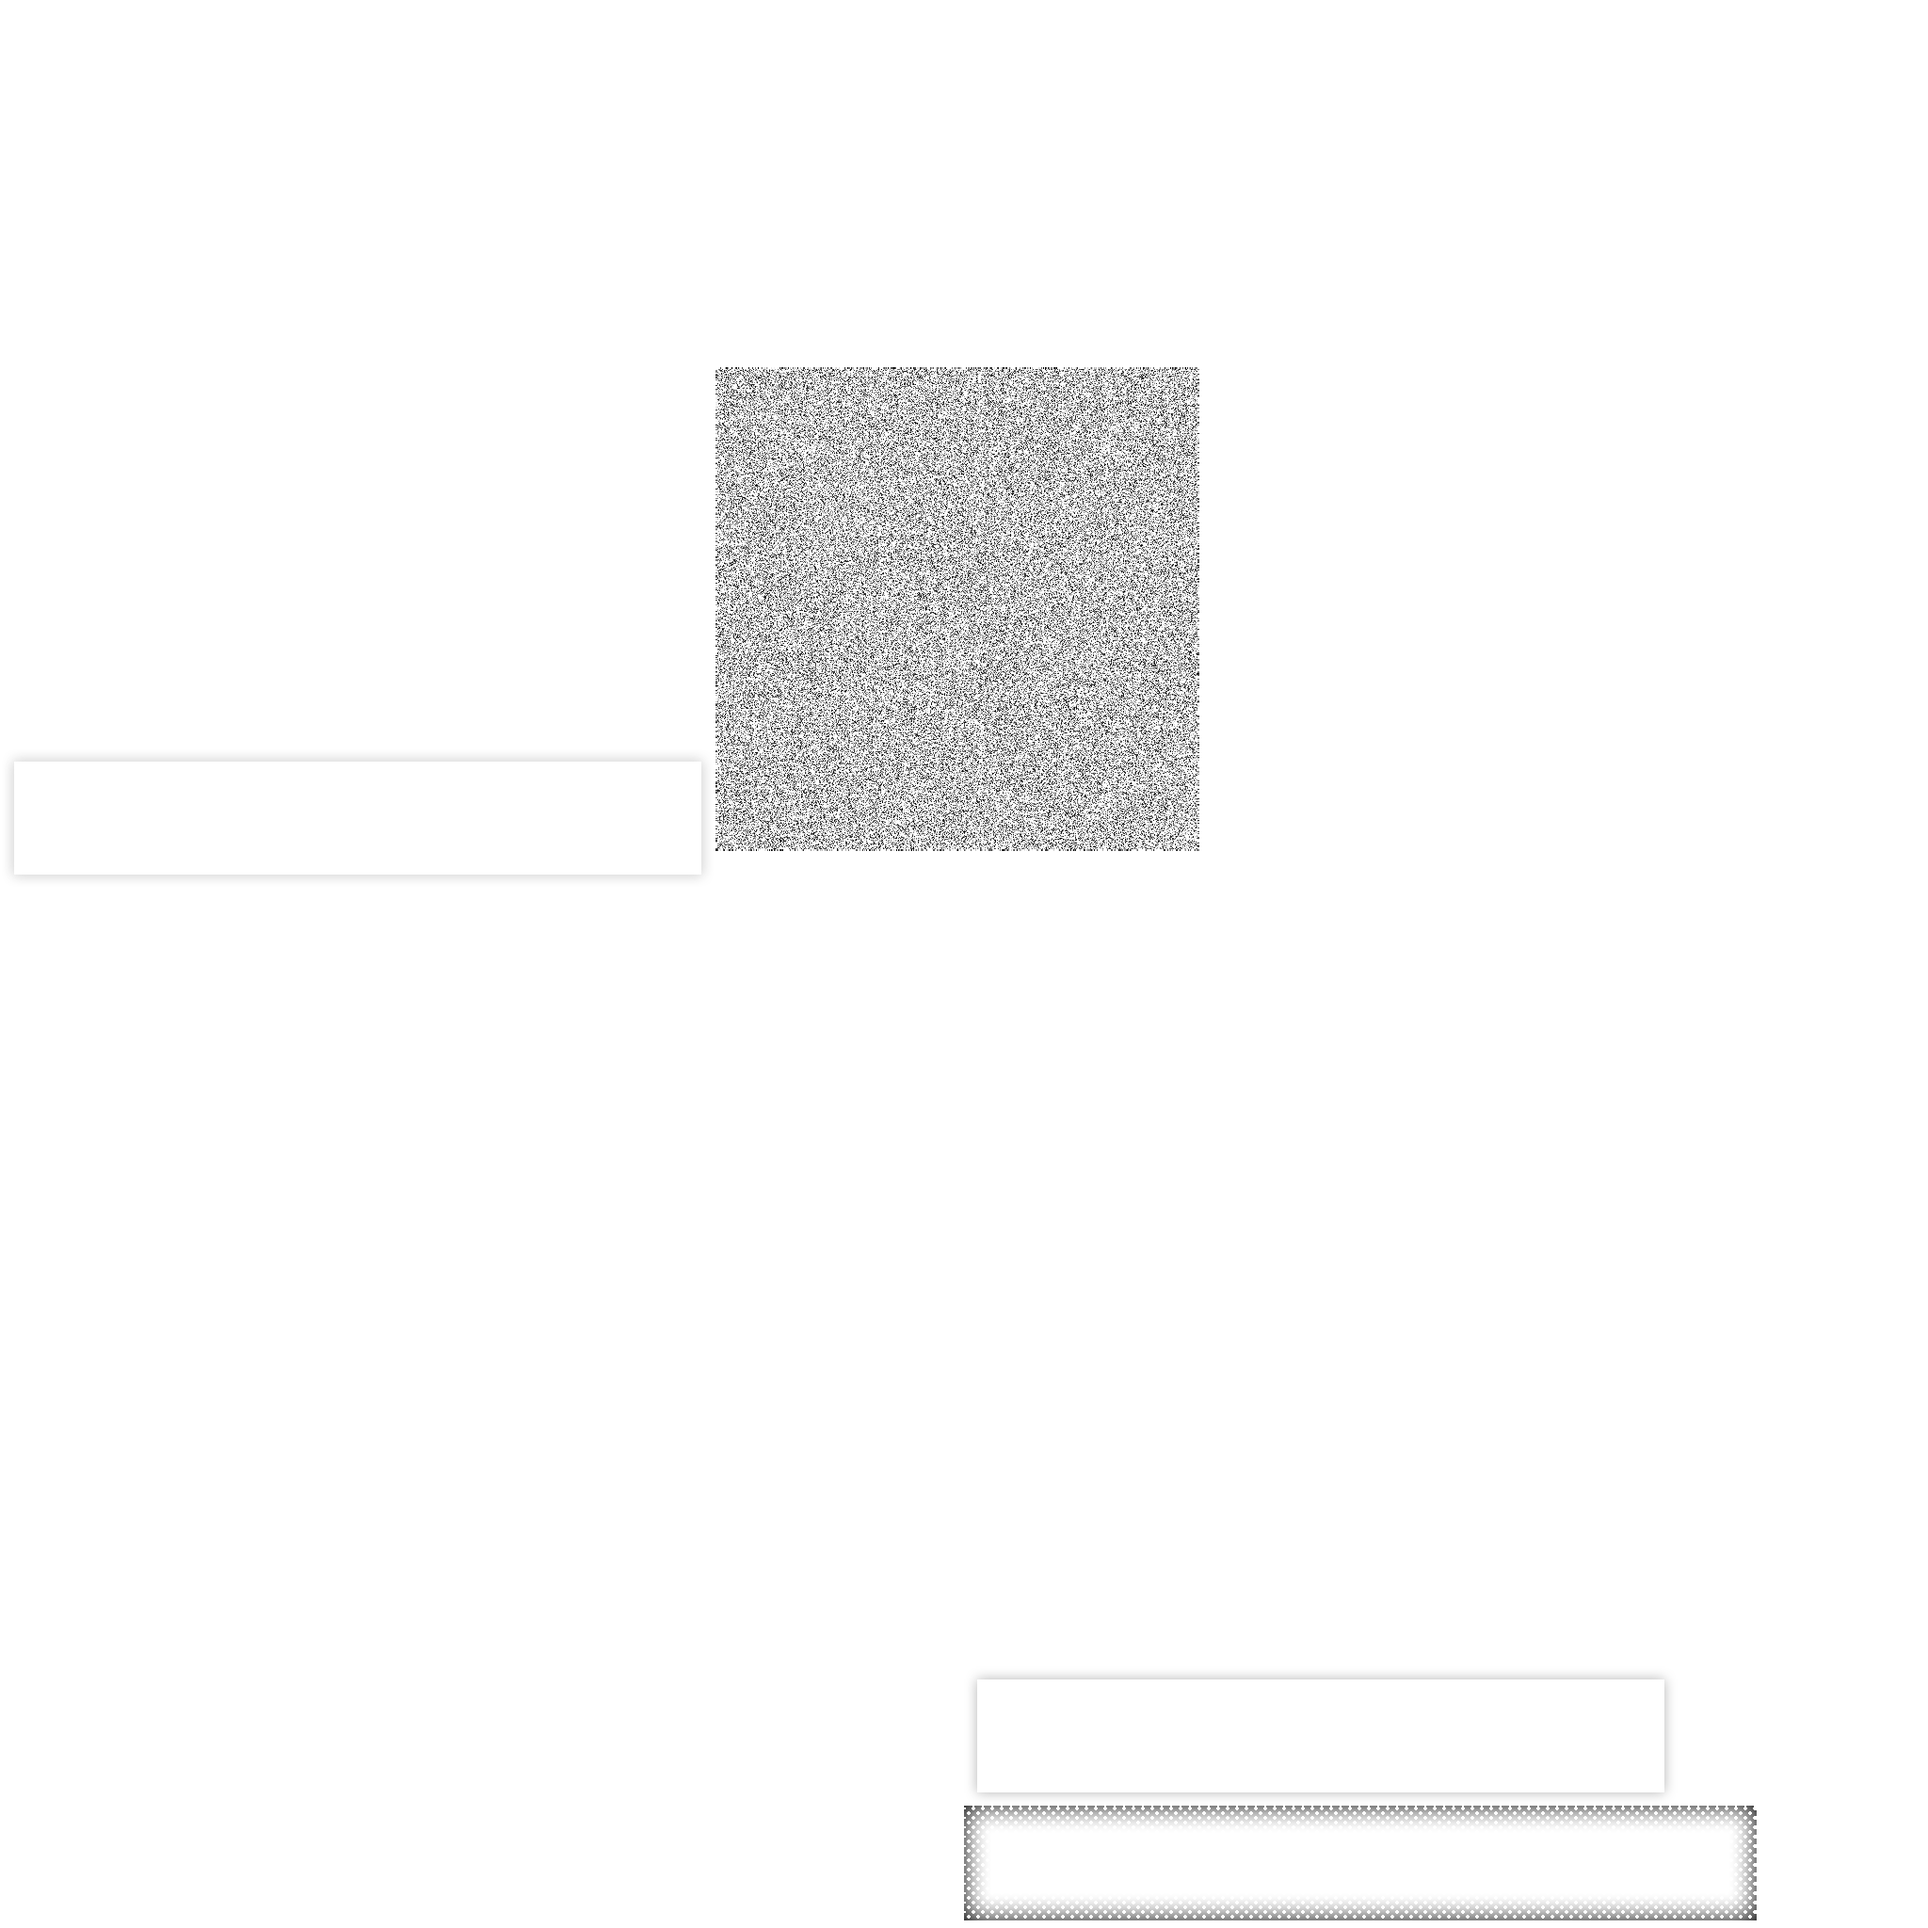
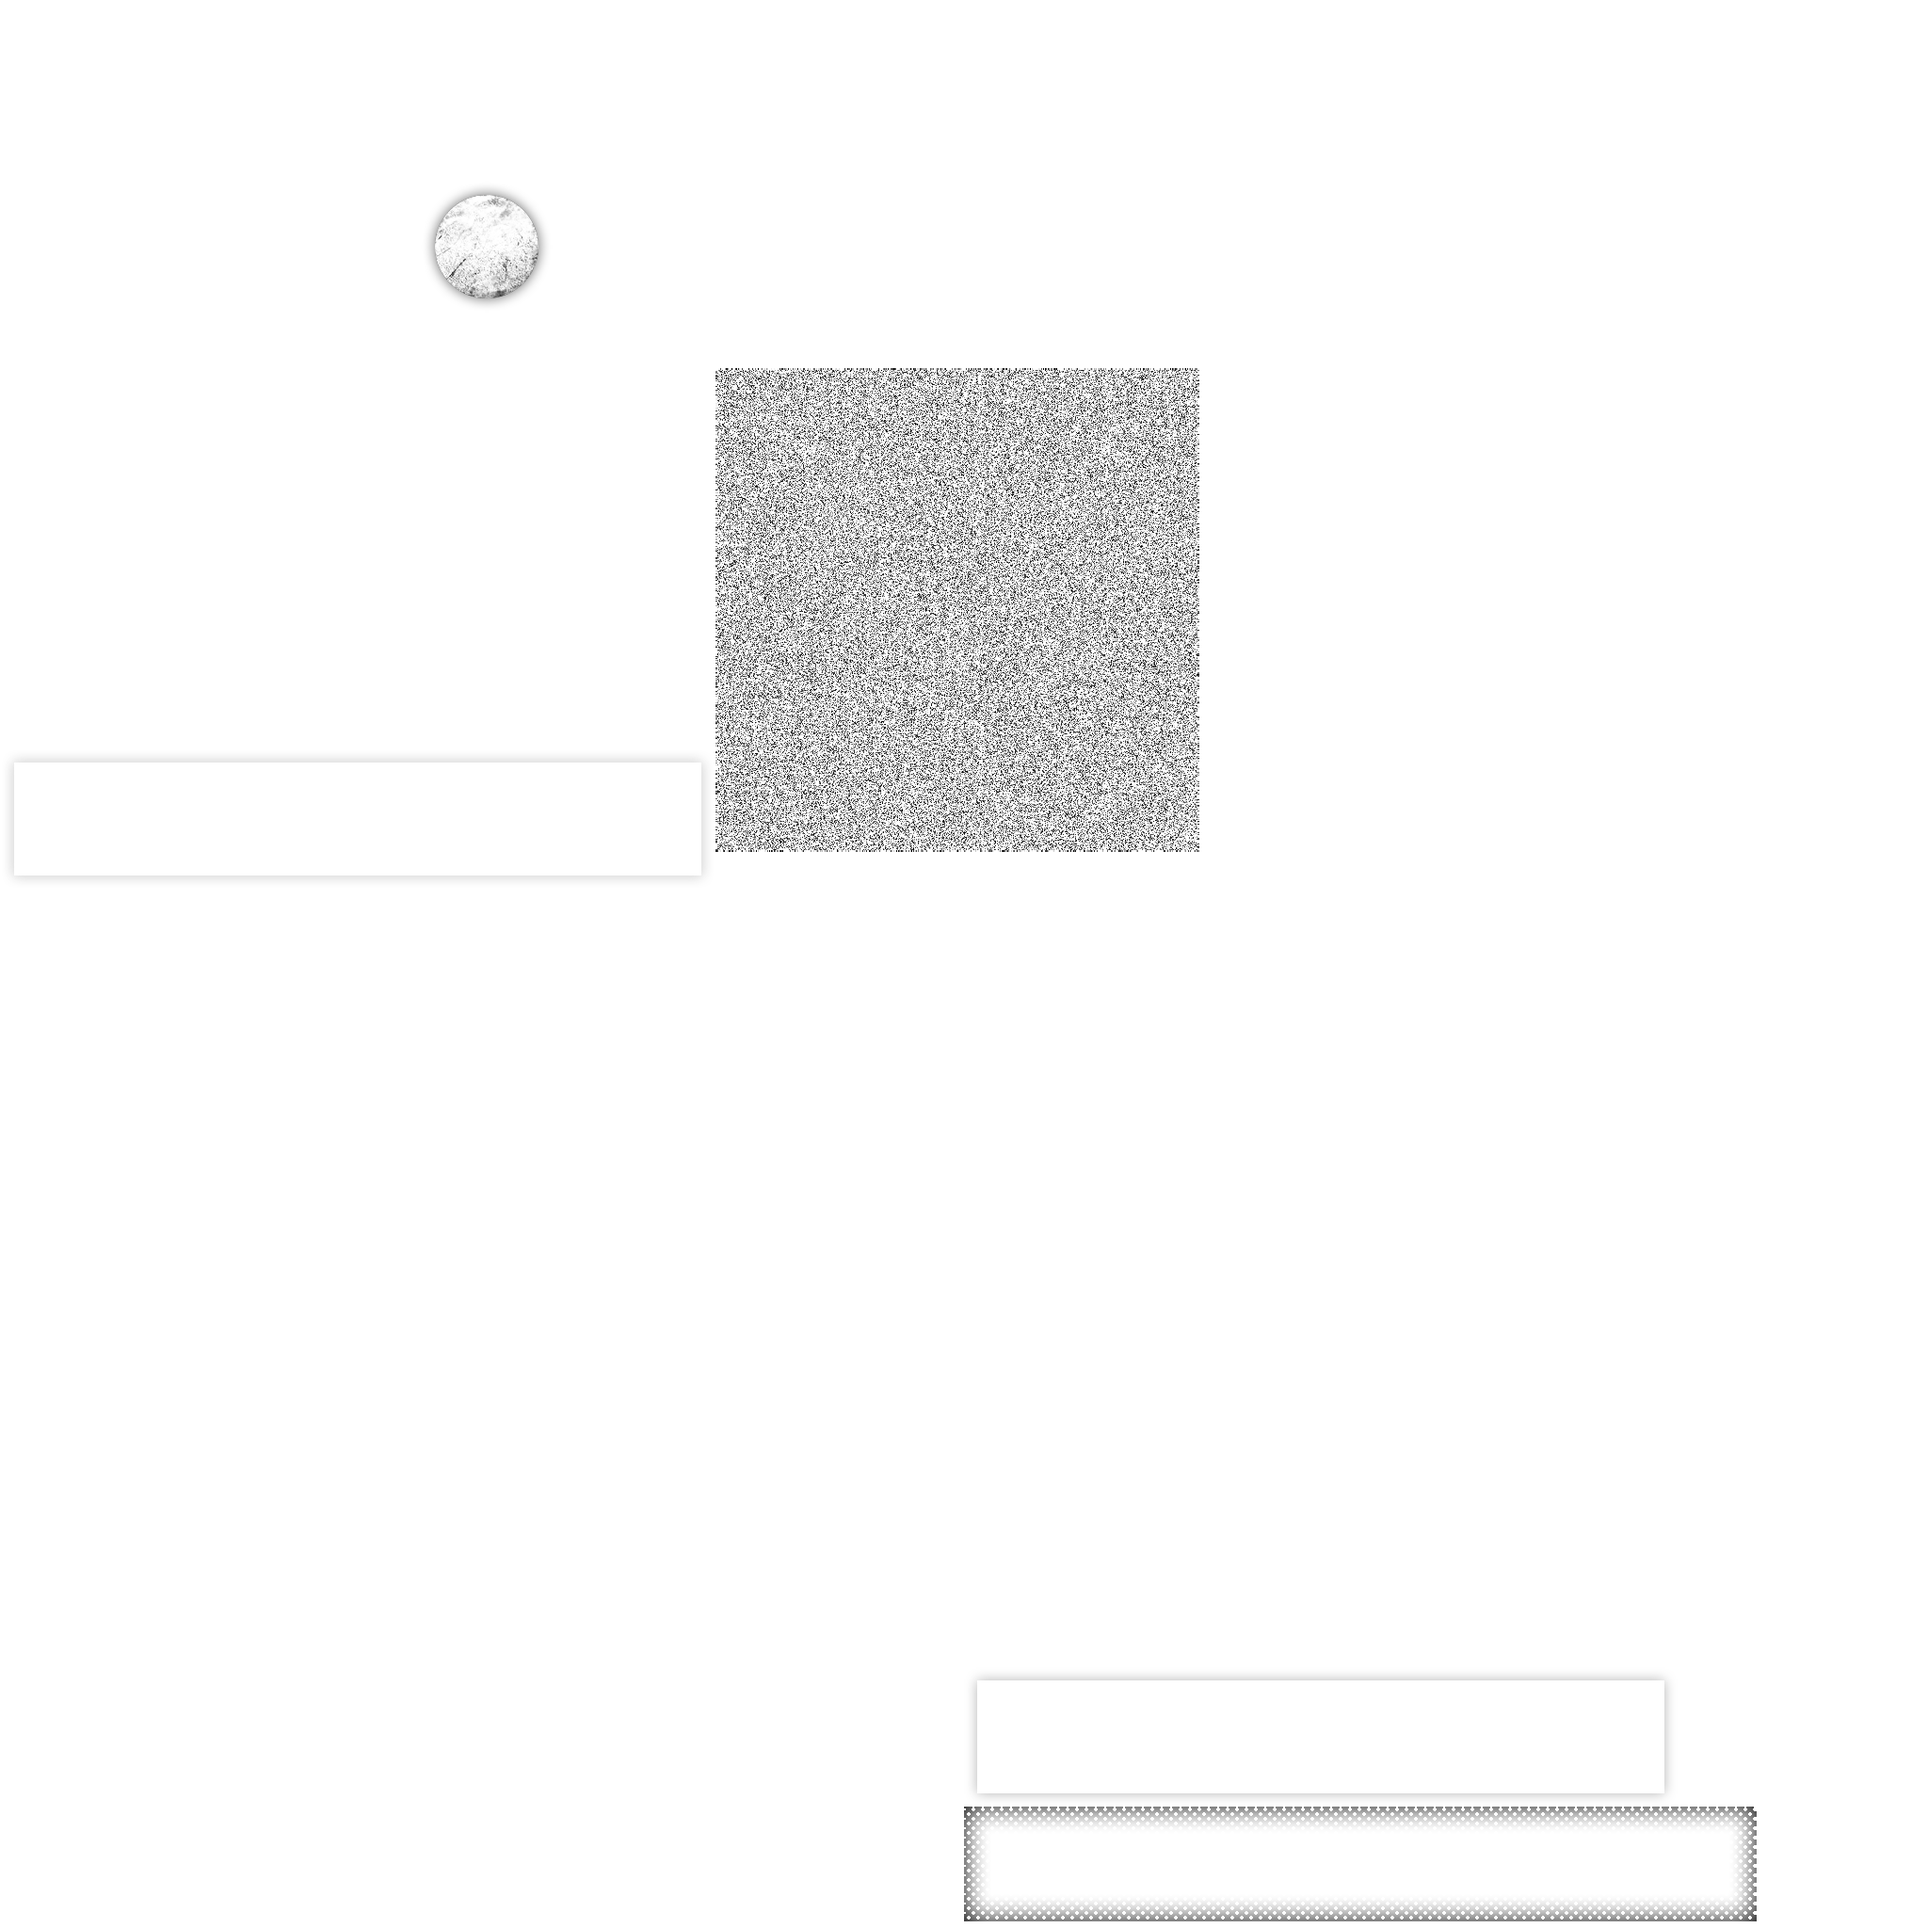
feat: rebuilding MeetingUI prototype

Changed region(s): [[0.375, 0.1875, 0.625, 0.4375], [0.2188, 0.0938, 0.2812, 0.1562]]

diff --git a/core/src/com/titaniumPolitics/game/ui/meeting/MeetingUI.kt b/core/src/com/titaniumPolitics/game/ui/meeting/MeetingUI.kt
@@ -1,31 +1,31 @@
 package com.titaniumPolitics.game.ui.meeting
 
-import com.badlogic.gdx.scenes.scene2d.ui.HorizontalGroup
 import com.badlogic.gdx.scenes.scene2d.ui.Label
+import com.badlogic.gdx.scenes.scene2d.ui.Stack
 import com.badlogic.gdx.scenes.scene2d.ui.Table
 import com.titaniumPolitics.game.core.GameState
 import com.titaniumPolitics.game.core.Meeting
-import com.titaniumPolitics.game.ui.AgendaUI
 import com.titaniumPolitics.game.ui.CapsuleStage
-import com.titaniumPolitics.game.ui.InfoCardUI
 import com.titaniumPolitics.game.ui.PortraitUI
 import ktx.scene2d.KTable
 import ktx.scene2d.Scene2DSkin.defaultSkin
-import ktx.scene2d.label
+import ktx.scene2d.image
+import ktx.scene2d.stack
 
 
 //This UI is used for both meetings and conferences
 class MeetingUI(var gameState: GameState) : Table(defaultSkin), KTable
 {
     val portraits = arrayListOf<PortraitUI>()
-    val availableInfos = HorizontalGroup()
-    val currentAgendas = HorizontalGroup()
+    val speakerPortrait = PortraitUI("", gameState)
+    val deployedInfos = arrayListOf<InfoBubbleUI>()
+    val currentAgendas = arrayListOf<AgendaBubbleUI>()
     val currentAttention = Label("0", defaultSkin, "trnsprtConsole")
+    val discussionTable: Stack
 
     init
     {
         instance = this
-        currentAgendas.pad(50f)
         //Red color for attention
         currentAttention.setColor(1f, 0f, 0f, 1f)
 
@@ -34,13 +34,14 @@ class MeetingUI(var gameState: GameState) : Table(defaultSkin), KTable
             if (it.player.currentMeeting != null)
                 refresh(it.player.currentMeeting!!)
         }
-        add(currentAttention)
-        row()
-        label("Agendas", "trnsprtConsole") {
-            setFontScale(2f)
+        add(speakerPortrait).grow()
+        discussionTable = stack {
+            it.size(800f, 800f)
+            image("BadgeRound") {
+
+            }
+            add(this@MeetingUI.currentAttention)
         }
-        row()
-        add(currentAgendas)
 
 
     }
@@ -48,27 +49,21 @@ class MeetingUI(var gameState: GameState) : Table(defaultSkin), KTable
     //This function can be used for both meetings and conferences
     fun refresh(meeting: Meeting)
     {
-        portraits.forEach { it.remove() }
-        portraits.clear()
         meeting.currentCharacters.forEach {
-
-            //Player can see themselves.
-            addCharacterPortrait(it)
+            if (portraits.none { portrait -> portrait.tgtCharacter == it })
+            {
+                //Player can see themselves.
+                addCharacterPortrait(it)
+            }
         }
         placeCharacterPortrait()
         currentAgendas.clear()
-        meeting.agendas.forEach {
-            val agendaUI = AgendaUI(gameState)
-            agendaUI.refresh(meeting, it)
-            currentAgendas.addActor(agendaUI)
-        }
-        availableInfos.clear()
-        gameState.player.preparedInfoKeys.filter { key -> meeting.agendas.none { it.informationKeys.contains(key) } }
-            .forEach {
-                val infoUI = InfoCardUI(gameState)
-                infoUI.refresh(gameState.informations[it]!!)
-                availableInfos.addActor(infoUI)
-            }
+//        meeting.agendas.forEach {
+//            val agendaUI = AgendaUI(gameState)
+//            agendaUI.refresh(meeting, it)
+//            currentAgendas.addActor(agendaUI)
+//        }
+
         currentAttention.setText(meeting.currentAttention.toString())
     }
 
@@ -85,12 +80,15 @@ class MeetingUI(var gameState: GameState) : Table(defaultSkin), KTable
     //Cf. the same function in CharacterPortraitsUI
     private fun placeCharacterPortrait()
     {
-        //reorder portraits so that the speaker is always on the center
-        val speakerPortrait = portraits.find { it.tgtCharacter == gameState.player.currentMeeting!!.currentSpeaker }
-        if (speakerPortrait != null)
+
+        //reorder portraits so that the speaker is always on a different position.
+        if (speakerPortrait.tgtCharacter != gameState.player.currentMeeting!!.currentSpeaker)
         {
-            portraits.remove(speakerPortrait)
-            portraits.add(portraits.size / 2, speakerPortrait)
+            val oldSpeakerPortrait =
+                portraits.find { it.tgtCharacter == gameState.player.currentMeeting!!.currentSpeaker }!!
+            val oldCharacter = oldSpeakerPortrait.tgtCharacter
+            oldSpeakerPortrait.tgtCharacter = gameState.player.currentMeeting!!.currentSpeaker
+            speakerPortrait.tgtCharacter = oldCharacter
         }
         //Place portraits across the screen so they are not on top of each other.
         portraits.forEach {

diff --git a/core/src/com/titaniumPolitics/game/ui/PortraitUI.kt b/core/src/com/titaniumPolitics/game/ui/PortraitUI.kt
@@ -11,23 +11,9 @@ import com.titaniumPolitics.game.core.ReadOnly
 import ktx.scene2d.*
 import ktx.scene2d.Scene2DSkin.defaultSkin
 
-class PortraitUI(var tgtCharacter: String, var gameState: GameState) : Table(defaultSkin), KTable
+class PortraitUI(character: String, var gameState: GameState) : Table(defaultSkin), KTable
 {
-    val speech = scene2d.label("Hello", "trnsprtConsole") {
-        setFontScale(3f)
-    }
-    val bubble = scene2d.stack {
-        add(this@PortraitUI.speech)
-    }
-    val theEmoji = scene2d.image("HelpGrunge")
     val portrait = scene2d.image("UserGrunge") {
-        try
-        {
-            this.setDrawable(defaultSkin, this@PortraitUI.tgtCharacter)
-        } catch (e: Exception)
-        {
-            println("Portrait Image Error: ${this@PortraitUI.tgtCharacter}")
-        }
         addListener(object : com.badlogic.gdx.scenes.scene2d.utils.ClickListener()
         {
             override fun clicked(event: com.badlogic.gdx.scenes.scene2d.InputEvent?, x: Float, y: Float)
@@ -39,6 +25,25 @@ class PortraitUI(var tgtCharacter: String, var gameState: GameState) : Table(def
             }
         })
     }
+    var tgtCharacter = character
+        set(value)
+        {
+            field = value
+            try
+            {
+                portrait.setDrawable(defaultSkin, value)
+            } catch (e: Exception)
+            {
+                println("Portrait Image Error: $value")
+            }
+        }
+    val speech = scene2d.label("Hello", "trnsprtConsole") {
+        setFontScale(3f)
+    }
+    val bubble = scene2d.stack {
+        add(this@PortraitUI.speech)
+    }
+    val theEmoji = scene2d.image("HelpGrunge")
 
     val refresh = { state: GameState ->
 

diff --git a/core/src/com/titaniumPolitics/game/ui/meeting/AvailableInfoUI.kt b/core/src/com/titaniumPolitics/game/ui/meeting/AvailableInfoUI.kt
@@ -1,0 +1,48 @@
+package com.titaniumPolitics.game.ui.meeting
+
+import com.badlogic.gdx.scenes.scene2d.ui.*
+import com.badlogic.gdx.scenes.scene2d.utils.ClickListener
+import com.titaniumPolitics.game.core.GameEngine
+import com.titaniumPolitics.game.core.GameState
+import com.titaniumPolitics.game.core.Meeting
+import com.titaniumPolitics.game.core.gameActions.Examine
+import com.titaniumPolitics.game.ui.CharacterPortraitsUI
+import com.titaniumPolitics.game.ui.InfoCardUI
+import ktx.scene2d.*
+import ktx.scene2d.Scene2DSkin.defaultSkin
+
+class AvailableInfoUI(var gameState: GameState) : Table(defaultSkin)
+{
+    var titleLabel: Label
+    private val docList = HorizontalGroup()
+
+    init
+    {
+        titleLabel = Label("Options", skin, "trnsprtConsole")
+        titleLabel.setFontScale(2f)
+        add(titleLabel).growX()
+        row()
+        docList.grow()
+
+        add(docList).size(300f, 100f)
+    }
+
+    override fun setVisible(visible: Boolean)
+    {
+        CharacterPortraitsUI.instance.isVisible = !visible
+        super.setVisible(visible)
+    }
+
+    fun refresh(meeting: Meeting)
+    {
+        docList.clear()
+        gameState.player.preparedInfoKeys.filter { key -> meeting.agendas.none { it.informationKeys.contains(key) } }
+            .forEach {
+                val infoUI = InfoCardUI(gameState)
+                infoUI.refresh(gameState.informations[it]!!)
+                docList.addActor(infoUI)
+            }
+    }
+
+
+}

diff --git a/core/src/com/titaniumPolitics/game/ui/MainMenu.kt b/core/src/com/titaniumPolitics/game/ui/MainMenu.kt
@@ -133,9 +133,9 @@ class MainMenu(val entry: EntryClass) : Stage(FitViewport(1920F, 1080F))
                 Gdx.files.internal("json/init.json").readString()
             ).also {
                 println("Loading complete.")
+                it.initialize()
                 entry.stage = CapsuleStage(it)
                 Gdx.input.inputProcessor = entry.stage
-                it.initialize()
             }
             newGame.onStart.forEach { it() }
         } else
@@ -145,10 +145,10 @@ class MainMenu(val entry: EntryClass) : Stage(FitViewport(1920F, 1080F))
                 GameState.serializer(),
                 Gdx.files.internal(savedGamePath).readString()
             ).also {
+                it.injectDependency()
                 println("Loading complete.")
                 entry.stage = CapsuleStage(it)
                 Gdx.input.inputProcessor = entry.stage
-                it.initialize()
             }
         }
         println("Starting game engine.")

diff --git a/core/src/com/titaniumPolitics/game/ui/AvailableActionsUI.kt b/core/src/com/titaniumPolitics/game/ui/AvailableActionsUI.kt
@@ -25,6 +25,7 @@ class AvailableActionsUI(var gameState: GameState) : Table(defaultSkin), KTable
 
         options = ExamineUI(this@AvailableActionsUI.gameState)
         add(options)
+        options.isVisible = false
 //        CapsuleStage.instance.onMouseDown.add { x, y ->
 //            //If x and y are not within the bounds of this UI, hide the option ui.
 //            val localpos = options.screenToLocalCoordinates(Vector2(x, y))

diff --git a/core/src/com/titaniumPolitics/game/ui/InfoCardUI.kt b/core/src/com/titaniumPolitics/game/ui/InfoCardUI.kt
@@ -7,7 +7,9 @@ import ktx.scene2d.KTable
 import ktx.scene2d.Scene2DSkin.defaultSkin
 
 
-//This UI is used for both meetings and conferences
+//This UI is used for both meetings and conferences.
+//It appears as cards in the lower half of the screen.
+//Once they are deployed, they appear as InfoBubbleUIs.
 class InfoCardUI(var gameState: GameState) : Table(defaultSkin), KTable
 {
 

diff --git a/core/src/com/titaniumPolitics/game/core/GameState.kt b/core/src/com/titaniumPolitics/game/core/GameState.kt
@@ -247,7 +247,7 @@ class GameState
     }
 
     //Injects the parent gameState to all elements in the gameState. This function should be called exactly once after the gameState is created.
-    private fun injectDependency()
+    fun injectDependency()
     {
         log.injectParent(this)
         places.forEach { it.value.injectParent(this) }

diff --git a/core/src/com/titaniumPolitics/game/ui/meeting/AgendaBubbleUI.kt b/core/src/com/titaniumPolitics/game/ui/meeting/AgendaBubbleUI.kt
@@ -1,0 +1,9 @@
+package com.titaniumPolitics.game.ui.meeting
+
+import com.badlogic.gdx.scenes.scene2d.ui.Table
+import ktx.scene2d.KTable
+
+class AgendaBubbleUI : Table(), KTable
+{
+
+}

diff --git a/core/src/com/titaniumPolitics/game/ui/meeting/InfoBubbleUI.kt b/core/src/com/titaniumPolitics/game/ui/meeting/InfoBubbleUI.kt
@@ -1,0 +1,9 @@
+package com.titaniumPolitics.game.ui.meeting
+
+import com.badlogic.gdx.scenes.scene2d.ui.Table
+import ktx.scene2d.KTable
+
+class InfoBubbleUI : Table(), KTable
+{
+
+}
